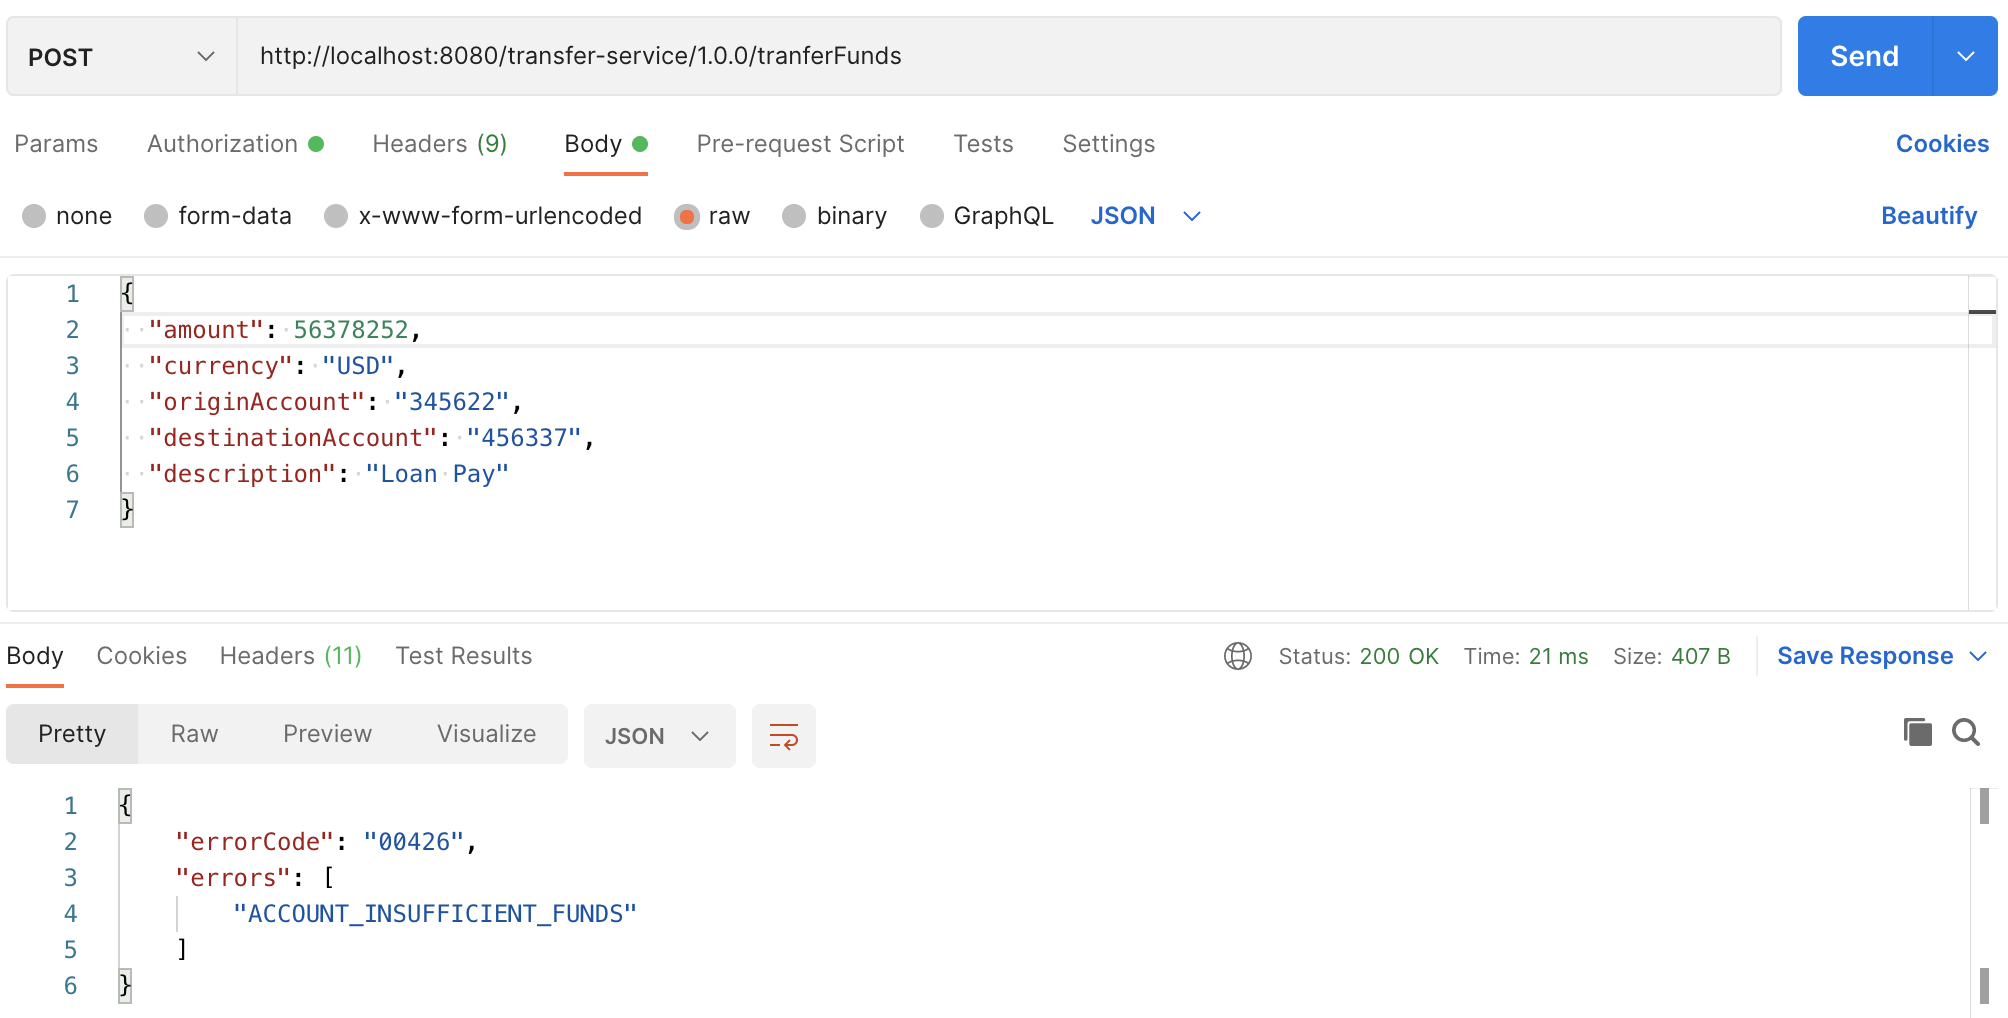
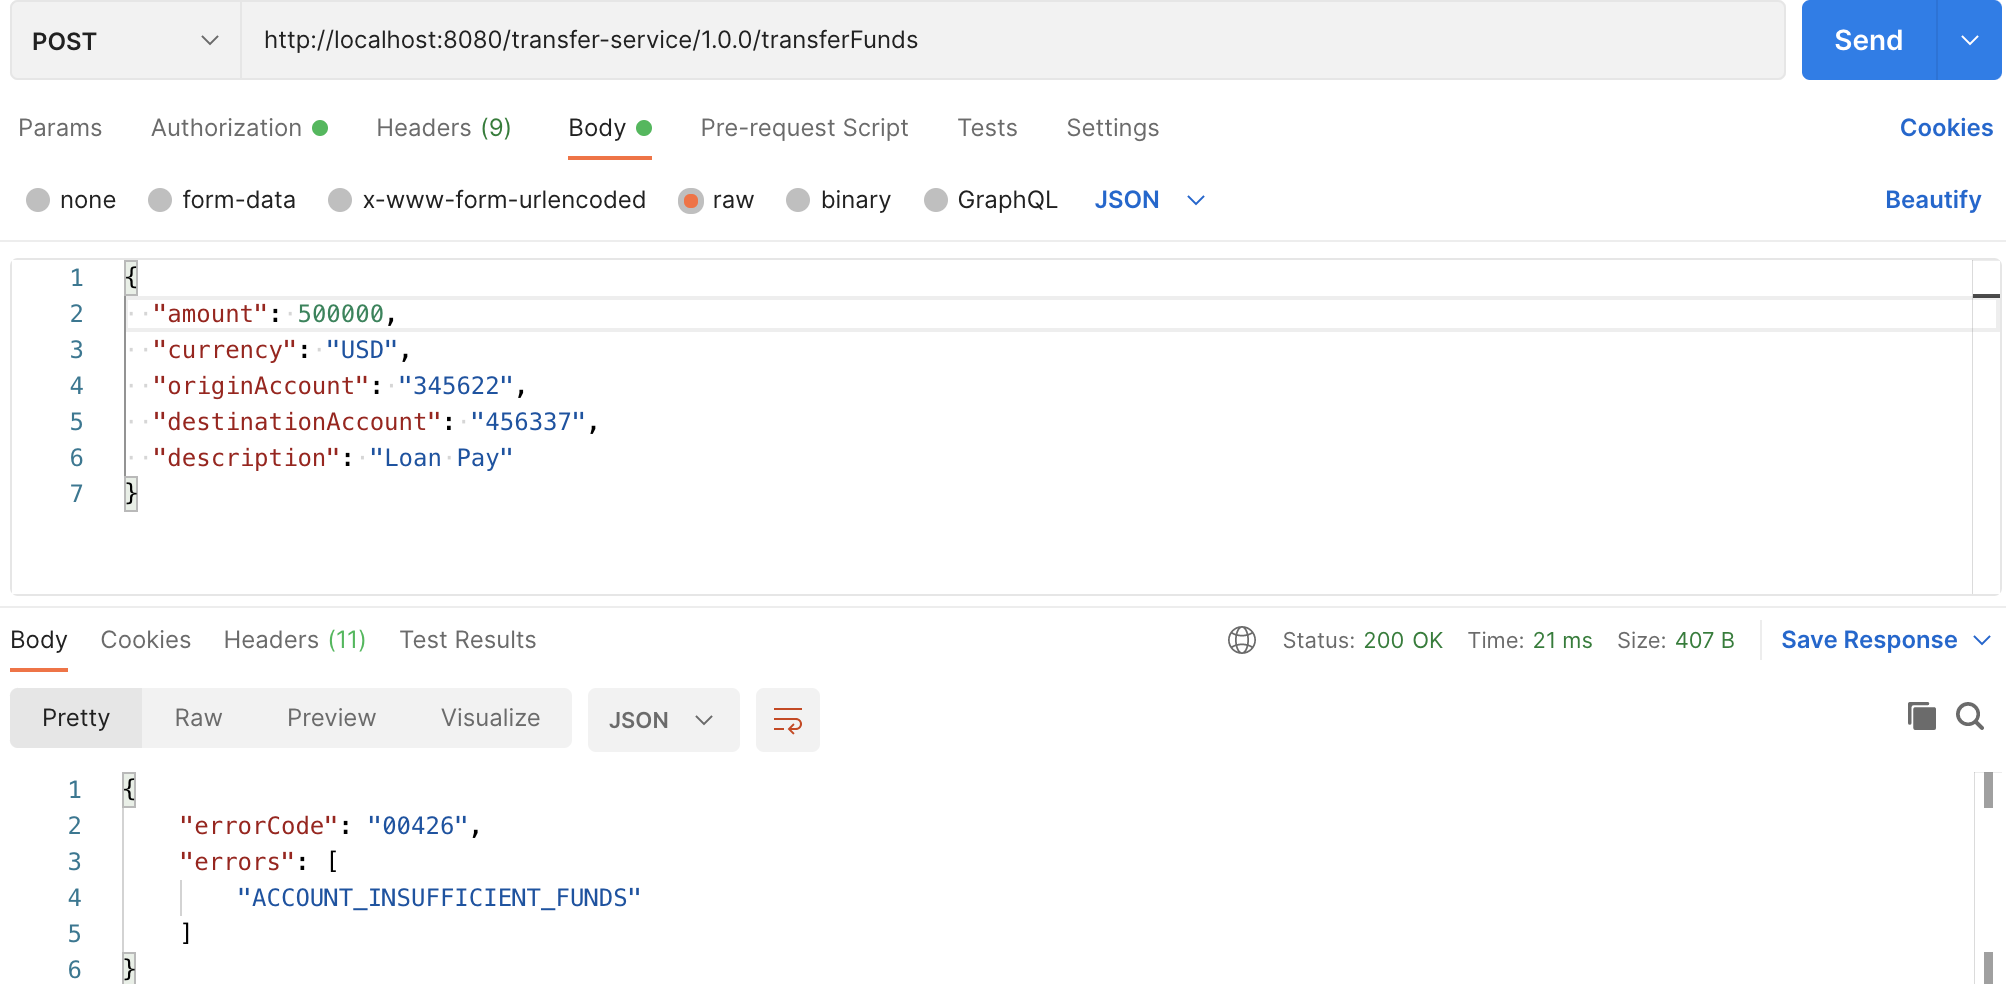
Ajustes documentacion

diff --git a/src/test/java/com/visa/fundstransfer/controller/TransferControllerTests.java b/src/test/java/com/visa/fundstransfer/controller/TransferControllerTests.java
@@ -71,7 +71,7 @@ class TransferControllerTests {
                 transfer.setDescription("");
                 transfer.setOriginAccount(0);
 
-                mvc.perform(MockMvcRequestBuilders.post("/1.0.0/tranferFunds").contentType(MediaType.APPLICATION_JSON)
+                mvc.perform(MockMvcRequestBuilders.post("/1.0.0/transferFunds").contentType(MediaType.APPLICATION_JSON)
                                 .header("Authorization", "Bearer ".concat(auth.getJwt()))
                                 .content(objectMapper.writeValueAsString(transfer))).andExpect(status().isOk())
                                 .andExpect(jsonPath("$.errorCode").exists()).andExpect(jsonPath("$.errors").exists())
@@ -88,7 +88,7 @@ class TransferControllerTests {
                 transfer.setOriginAccount(345622);
                 transfer.setDestinationAccount(456337);
 
-                mvc.perform(MockMvcRequestBuilders.post("/1.0.0/tranferFunds").contentType(MediaType.APPLICATION_JSON)
+                mvc.perform(MockMvcRequestBuilders.post("/1.0.0/transferFunds").contentType(MediaType.APPLICATION_JSON)
                                 .header("Authorization", "Bearer ".concat(auth.getJwt()))
                                 .content(objectMapper.writeValueAsString(transfer))).andExpect(status().isOk())
                                 .andExpect(jsonPath("$.errorCode").exists()).andExpect(jsonPath("$.errors").exists())
@@ -105,25 +105,25 @@ class TransferControllerTests {
                 transfer.setOriginAccount(345622);
                 transfer.setDestinationAccount(456337);
 
-                mvc.perform(MockMvcRequestBuilders.post("/1.0.0/tranferFunds").contentType(MediaType.APPLICATION_JSON)
+                mvc.perform(MockMvcRequestBuilders.post("/1.0.0/transferFunds").contentType(MediaType.APPLICATION_JSON)
                                 .header("Authorization", "Bearer ".concat(auth.getJwt()))
                                 .content(objectMapper.writeValueAsString(transfer))).andExpect(status().isOk())
                                 .andExpect(jsonPath("$.id").exists()).andExpect(jsonPath("$.taxCollected").exists())
                                 .andExpect(jsonPath("$.cad").exists()).andReturn();
 
-                mvc.perform(MockMvcRequestBuilders.post("/1.0.0/tranferFunds").contentType(MediaType.APPLICATION_JSON)
+                mvc.perform(MockMvcRequestBuilders.post("/1.0.0/transferFunds").contentType(MediaType.APPLICATION_JSON)
                                 .header("Authorization", "Bearer ".concat(auth.getJwt()))
                                 .content(objectMapper.writeValueAsString(transfer))).andExpect(status().isOk())
                                 .andExpect(jsonPath("$.id").exists()).andExpect(jsonPath("$.taxCollected").exists())
                                 .andExpect(jsonPath("$.cad").exists()).andReturn();
 
-                mvc.perform(MockMvcRequestBuilders.post("/1.0.0/tranferFunds").contentType(MediaType.APPLICATION_JSON)
+                mvc.perform(MockMvcRequestBuilders.post("/1.0.0/transferFunds").contentType(MediaType.APPLICATION_JSON)
                                 .header("Authorization", "Bearer ".concat(auth.getJwt()))
                                 .content(objectMapper.writeValueAsString(transfer))).andExpect(status().isOk())
                                 .andExpect(jsonPath("$.id").exists()).andExpect(jsonPath("$.taxCollected").exists())
                                 .andExpect(jsonPath("$.cad").exists()).andReturn();
 
-                mvc.perform(MockMvcRequestBuilders.post("/1.0.0/tranferFunds").contentType(MediaType.APPLICATION_JSON)
+                mvc.perform(MockMvcRequestBuilders.post("/1.0.0/transferFunds").contentType(MediaType.APPLICATION_JSON)
                                 .header("Authorization", "Bearer ".concat(auth.getJwt()))
                                 .content(objectMapper.writeValueAsString(transfer))).andExpect(status().isOk())
                                 .andExpect(jsonPath("$.errorCode").exists()).andExpect(jsonPath("$.errors").exists())
@@ -140,7 +140,7 @@ class TransferControllerTests {
                 transfer.setOriginAccount(345622);
                 transfer.setDestinationAccount(456337);
 
-                mvc.perform(MockMvcRequestBuilders.post("/1.0.0/tranferFunds").contentType(MediaType.APPLICATION_JSON)
+                mvc.perform(MockMvcRequestBuilders.post("/1.0.0/transferFunds").contentType(MediaType.APPLICATION_JSON)
                                 .header("Authorization", "Bearer ".concat(auth.getJwt()))
                                 .content(objectMapper.writeValueAsString(transfer))).andExpect(status().isOk())
                                 .andExpect(jsonPath("$.id").exists()).andExpect(jsonPath("$.taxCollected").exists())
@@ -157,7 +157,7 @@ class TransferControllerTests {
                 transfer.setOriginAccount(345622);
                 transfer.setDestinationAccount(456337);
 
-                mvc.perform(MockMvcRequestBuilders.post("/1.0.0/tranferFunds").contentType(MediaType.APPLICATION_JSON)
+                mvc.perform(MockMvcRequestBuilders.post("/1.0.0/transferFunds").contentType(MediaType.APPLICATION_JSON)
                                 .header("Authorization", "Bearer ".concat(auth.getJwt()))
                                 .content(objectMapper.writeValueAsString(transfer))).andExpect(status().isOk())
                                 .andExpect(jsonPath("$.id").exists()).andExpect(jsonPath("$.taxCollected").exists())

diff --git a/src/main/java/com/visa/fundstransfer/controller/TransferController.java b/src/main/java/com/visa/fundstransfer/controller/TransferController.java
@@ -25,10 +25,10 @@ public class TransferController {
     TransferService transferService;
 
     @ApiOperation(value = "Operation to create a funds transfer", response = ResponseEntity.class)
-    @PostMapping(value = "/tranferFunds", produces = { MediaType.APPLICATION_JSON_VALUE })
+    @PostMapping(value = "/transferFunds", produces = { MediaType.APPLICATION_JSON_VALUE })
     @ResponseStatus(value = HttpStatus.OK)
     @ResponseBody
-    public Object tranferFunds(@RequestBody TransferDTO transfer) {
+    public Object transferFunds(@RequestBody TransferDTO transfer) {
         return transferService.transferFunds(transfer);
     }
 
